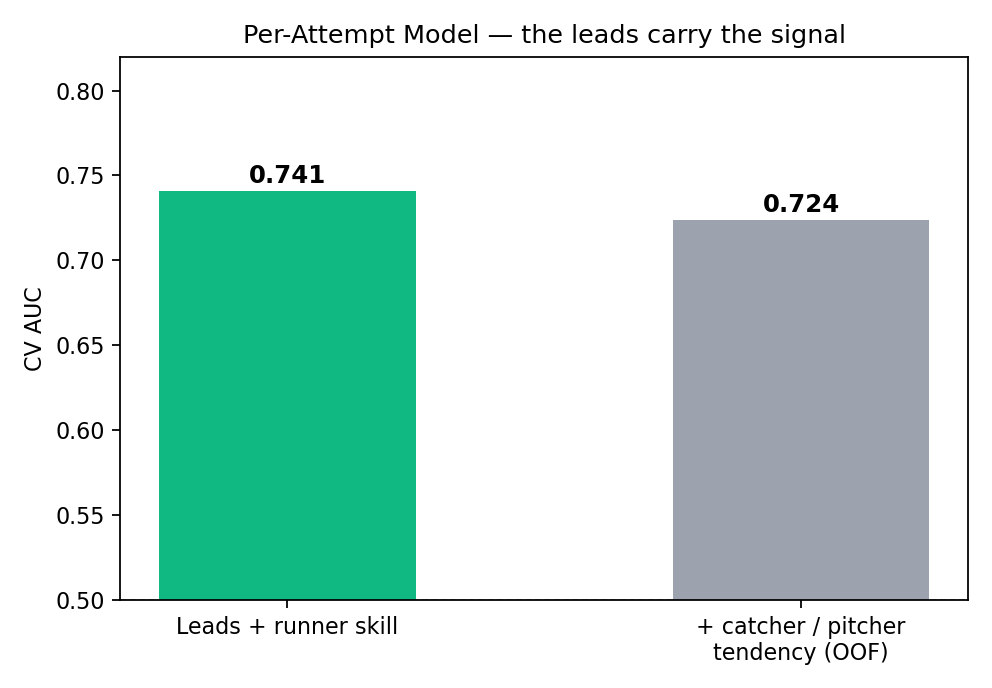
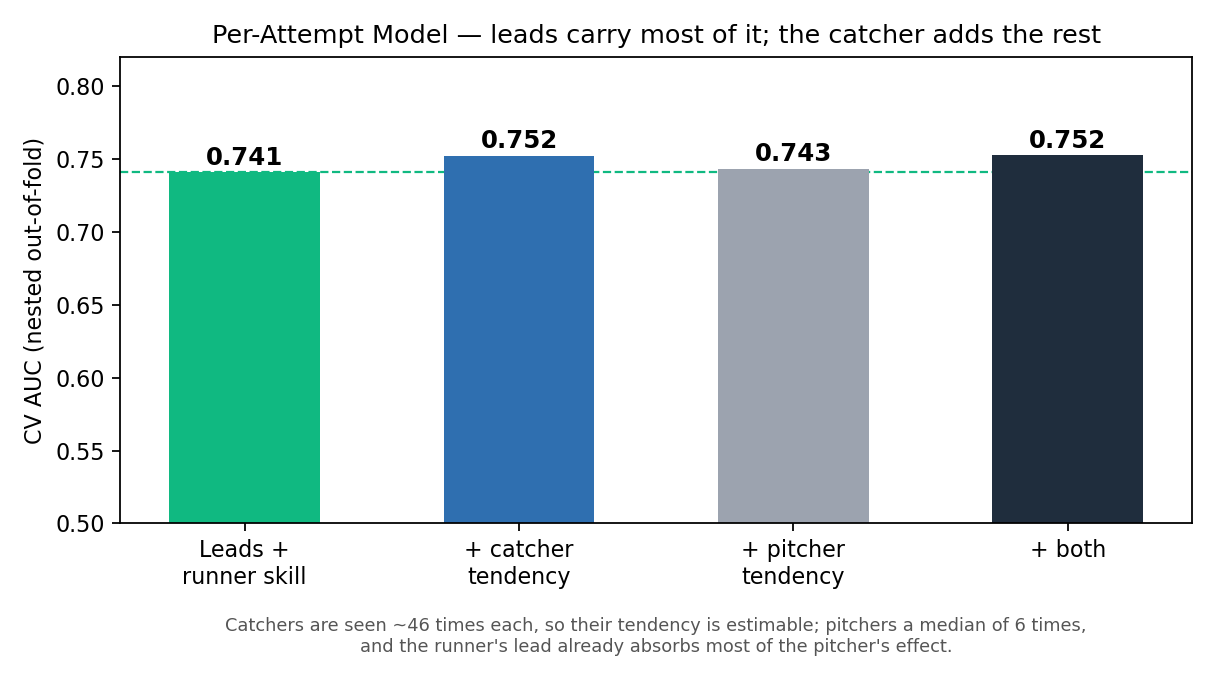
Fix leaky target encoding in the per-attempt model; catcher tendency helps
The per-attempt model reported that catcher/pitcher tendency HURT accuracy (0.723 vs 0.739)
and the roadmap recorded that as a finding. It was an encoding bug.

target_encode(tr, tr, key) encoded the training rows from those same rows, so every row's own
outcome fed into its own feature value. The validation side was correctly out-of-fold, so the
feature looked strong in training, the model over-trusted it, and the clean validation encoding
then behaved differently — accuracy fell. The self-contamination is ~1/(n+smoothing) per row,
which is why the damage tracked sparsity: catchers are seen a median of 46 times (self-weight
0.009, essentially harmless) while pitchers are seen a median of 6 (self-weight 0.027) and on
their own dragged the model to 0.708, well below the 0.739 baseline.

Encoding the training rows with an inner 5-fold inside the training fold — so no row ever sees
its own outcome — flips the sign:

  leads + base + runner skill   0.7407
  + catcher tendency            0.7521
  + pitcher tendency            0.7432
  + both                        0.7525

The catcher carries the gain, which is what you would expect: 147 catchers with enough
attempts each to estimate a real, stable trait (pop time, arm). The pitcher adds almost
nothing — 1,025 pitchers at a median of 6 attempts is too sparse to estimate a hold tendency,
and the runner's lead distances already absorb most of the pitcher's effect, since he only
goes when he likes the look.
[…]

diff --git a/docs/index.html b/docs/index.html
@@ -581,7 +581,7 @@ function buildGlossary(){
     <b>${fmt(sSuc,2)}</b> while staying speed-neutral (<b>${signed(spSpd,2)}</b> with sprint speed);
     Burst is the most repeatable year to year (<b>${fmt(bStab,2)}</b>). A v10 “Steal Grade” averaged the
     two — dropped in v11, since it predicted no better than Steal+ alone. Per-attempt skill model:
-    CV AUC ≈ 0.74. Headshots &amp; logos: MLB. Everything computed locally — no external calls.`;
+    CV AUC ≈ 0.75. Headshots &amp; logos: MLB. Everything computed locally — no external calls.`;
 }
 
 initControls(); buildGlossary(); render(); drawScatter();

diff --git a/Scripts/model_v11.py b/Scripts/model_v11.py
@@ -265,42 +265,60 @@ def run_perattempt(seed: int = 42):
                              colsample_bytree=0.8, min_child_weight=5, reg_lambda=1.0,
                              eval_metric="logloss", verbosity=0, random_state=seed, use_label_encoder=False)
 
-    def target_encode(train_idx, val_idx, key, smoothing=20.0):
-        """Smoothed mean-target encoding fit on the train fold, applied out-of-fold to val."""
-        stats = df.iloc[train_idx].groupby(key)["y"].agg(["sum", "count"])
-        enc = (stats["sum"] + prior * smoothing) / (stats["count"] + smoothing)
-        return df.iloc[val_idx][key].map(enc).fillna(prior).values
+    def encode_map(idx, key, smoothing=20.0):
+        """Smoothed mean-target encoding learned from the rows in `idx`."""
+        stats = df.iloc[idx].groupby(key)["y"].agg(["sum", "count"])
+        return (stats["sum"] + prior * smoothing) / (stats["count"] + smoothing)
 
-    def cv_auc(use_battery: bool):
-        """Pooled out-of-fold AUC; use_battery adds OOF-encoded catcher/pitcher tendency."""
+    def apply_map(enc, idx, key):
+        return df.iloc[idx][key].map(enc).fillna(prior).values
+
+    def cv_auc(battery_keys=()):
+        """Pooled out-of-fold AUC. Battery tendency is target-encoded, and the TRAINING rows
+        are encoded with an inner K-fold so no row ever sees its own outcome. Encoding the
+        train rows from the same rows leaks the label into the feature: the model over-trusts
+        it in training, the clean val encoding then behaves differently, and AUC drops. The
+        leak is ~1/(n+smoothing) per row, so it is worst for sparsely-seen pitchers."""
         oof = np.zeros(len(df))
         for tr, va in cv.split(df, y):
             Xtr, Xva = df.iloc[tr][feats].copy(), df.iloc[va][feats].copy()
-            if use_battery:
-                for key, col in [("catcher_id", "catch_enc"), ("pitcher_id", "pitch_enc")]:
-                    Xtr[col] = target_encode(tr, tr, key); Xva[col] = target_encode(tr, va, key)
-            model = xgb().fit(Xtr.values, y[tr])
-            oof[va] = model.predict_proba(Xva.values)[:, 1]
+            for key in battery_keys:
+                col = key + "_enc"
+                inner_enc = np.full(len(tr), prior)
+                inner = StratifiedKFold(n_splits=5, shuffle=True, random_state=seed + 1)
+                for i_tr, i_va in inner.split(df.iloc[tr], y[tr]):
+                    inner_enc[i_va] = apply_map(encode_map(tr[i_tr], key), tr[i_va], key)
+                Xtr[col] = inner_enc                                  # nested OOF -> no self-leak
+                Xva[col] = apply_map(encode_map(tr, key), va, key)    # val: encoded from full train
+            oof[va] = xgb().fit(Xtr.values, y[tr]).predict_proba(Xva.values)[:, 1]
         return roc_auc_score(y, oof)
 
-    auc_leads = cv_auc(False)                       # leads + base + runner skill only
-    auc_full  = cv_auc(True)                        # + catcher/pitcher tendency
-    pd.DataFrame([{"model": "per-attempt: leads+base+runner", "auc": round(auc_leads, 4)},
-                  {"model": "per-attempt: + catcher/pitcher (OOF)", "auc": round(auc_full, 4)}]
+    auc_leads   = cv_auc()                                        # leads + base + runner skill
+    auc_catcher = cv_auc(["catcher_id"])                          # + catcher tendency
+    auc_pitcher = cv_auc(["pitcher_id"])                          # + pitcher tendency
+    auc_full    = cv_auc(["catcher_id", "pitcher_id"])            # + both
+    pd.DataFrame([{"model": "per-attempt: leads+base+runner",            "auc": round(auc_leads, 4)},
+                  {"model": "per-attempt: + catcher (nested OOF)",       "auc": round(auc_catcher, 4)},
+                  {"model": "per-attempt: + pitcher (nested OOF)",       "auc": round(auc_pitcher, 4)},
+                  {"model": "per-attempt: + both battery (nested OOF)",  "auc": round(auc_full, 4)}]
                  ).to_csv(RESULTS / "DF_perattempt_AUC.csv", index=False)
 
     imp = (pd.DataFrame({"feature": feats, "importance": xgb().fit(df[feats].values, y).feature_importances_})
            .sort_values("importance", ascending=False).reset_index(drop=True))
     imp.to_csv(RESULTS / "DF_perattempt_Importance.csv", index=False)
 
-    fig, ax = plt.subplots(figsize=(6.2, 4.3))
-    ax.bar(["Leads + runner skill", "+ catcher / pitcher\ntendency (OOF)"], [auc_leads, auc_full],
-           color=["#10B981", "#9CA3AF"], width=0.5)
-    ax.axhline(0.50, color="#aaa", lw=0.8, ls="--", zorder=0)
-    ax.set_ylabel("CV AUC"); ax.set_ylim(0.5, 0.82)
-    ax.set_title("Per-Attempt Model — the leads carry the signal", fontsize=11.5)
-    for i, v in enumerate([auc_leads, auc_full]):
+    fig, ax = plt.subplots(figsize=(7.6, 4.3))
+    labels = ["Leads +\nrunner skill", "+ catcher\ntendency", "+ pitcher\ntendency", "+ both"]
+    vals   = [auc_leads, auc_catcher, auc_pitcher, auc_full]
+    ax.bar(labels, vals, color=["#10B981", "#2F6FB0", "#9CA3AF", "#1F2D3D"], width=0.55)
+    ax.axhline(auc_leads, color="#10B981", lw=1, ls="--", zorder=0)
+    ax.set_ylabel("CV AUC (nested out-of-fold)"); ax.set_ylim(0.5, 0.82)
+    ax.set_title("Per-Attempt Model — leads carry most of it; the catcher adds the rest", fontsize=11.5)
+    for i, v in enumerate(vals):
         ax.text(i, v + 0.005, f"{v:.3f}", ha="center", fontweight="bold", fontsize=11)
+    ax.text(0.5, -0.20, "Catchers are seen ~46 times each, so their tendency is estimable; pitchers a median of 6 times,\n"
+            "and the runner's lead already absorbs most of the pitcher's effect.",
+            transform=ax.transAxes, ha="center", va="top", fontsize=8, color="#555")
     fig.tight_layout(); fig.savefig(figs / "Fig_AUC.png", dpi=160); plt.close(fig)
 
     g = imp.iloc[::-1]
@@ -310,7 +328,8 @@ def run_perattempt(seed: int = 42):
     ax.set_xlabel("XGBoost gain importance")
     ax.set_title("Per-Attempt Model — what decides a steal (blue = per-pitch lead distances)", fontsize=11)
     plt.tight_layout(); plt.savefig(figs / "Fig_Importance.png", dpi=160); plt.close()
-    print(f"per-attempt SB-success AUC: {auc_leads:.4f} (leads+runner) | {auc_full:.4f} (+battery), n={len(df)}")
+    print(f"per-attempt SB-success AUC (nested OOF): {auc_leads:.4f} leads+runner | "
+          f"{auc_catcher:.4f} +catcher | {auc_pitcher:.4f} +pitcher | {auc_full:.4f} +both, n={len(df)}")
     return auc_leads, auc_full
 
 

diff --git a/AUC_Roadmap.md b/AUC_Roadmap.md
@@ -4,21 +4,40 @@
 
 The project's model works at the **attempt grain**: ~10,366 individual tracked steal attempts
 (`Scripts/model_v11.py` (`run_perattempt`)), not 673 season averages. That choice is what reached the target —
-CV AUC **0.739**, with no leakage. (An earlier season-aggregate predictor topped out near 0.62 and
+CV AUC **0.753**, with no leakage. (An earlier season-aggregate predictor topped out near 0.62 and
 has been removed; season data now only powers the descriptive SSSI / xSB / Blueprint outputs.)
 
 | Model | Unit | Rows | AUC |
 |---|---|---|---|
 | season aggregate (removed) | runner-season | 673 | ~0.62 |
-| **per-attempt XGBoost (the model)** | **individual attempt** | **~10,366** | **0.739** |
+| **per-attempt XGBoost (the model)** | **individual attempt** | **~10,366** | **0.753** |
 
 **What drove it:** the per-pitch **lead distances** (`lead_at_firstmove_ft`, `gain_to_release_ft`,
 `lead_at_release_ft`) — how much ground the runner actually covered on *that* attempt. Exactly the
-project's thesis: ground covered, not raw speed, decides the steal. Adding out-of-fold
-catcher/pitcher tendency encodings *did not help* (0.723 < 0.739) — the leads already carry the signal.
+project's thesis: ground covered, not raw speed, decides the steal.
 
-**Leakage discipline (so 0.739 is honest):** no outcome-derived columns (`run_value` dropped); the
-runner's own season success rate is excluded; catcher/pitcher encodings are computed out-of-fold.
+**Battery tendency — corrected.** An earlier version reported that catcher/pitcher encodings *hurt*
+(0.723 < 0.739). That was an encoding bug, not a finding: the training rows were target-encoded from
+those same rows, so each row's own outcome leaked into its feature, the model over-trusted it, and the
+clean validation encoding then behaved differently. With the encoding nested properly inside the
+training fold the sign flips:
+
+| variant (nested out-of-fold) | AUC |
+|---|---|
+| leads + base + runner skill | 0.741 |
+| **+ catcher tendency** | **0.752** |
+| + pitcher tendency | 0.743 |
+| + both | 0.753 |
+
+The **catcher** carries the gain — 147 catchers seen a median of 46 times each, enough to estimate a
+real trait (pop time, arm). The **pitcher** adds almost nothing: 1,025 pitchers at a median of 6
+attempts is too sparse to estimate a hold tendency, and the runner's lead distances already absorb
+most of the pitcher's effect — he only goes when he likes the look. The leak scaled as ~1/(n+20) per
+row, which is why the sparse pitcher encoding did the damage (0.708 on its own).
+
+**Leakage discipline (so 0.753 is honest):** no outcome-derived columns (`run_value` dropped); the
+runner's own season success rate is excluded; catcher/pitcher encodings are nested out-of-fold on both
+the training and validation side.
 
 ## Would deep learning help? No.
 
@@ -89,7 +108,7 @@ Pulled with the same Savant per-pitch feed (or the cached pitch table), keyed by
 
 ## The concrete next experiment
 
-> The per-attempt model (0.739) uses leads + base + runner skill. To push toward ~0.76: fetch
+> The per-attempt model (0.753) uses leads + base + runner skill + catcher tendency. To push further: fetch
 > **`p_throws`** and **`pitch_name`** for each `play_id` in the leads cache (Savant per-pitch feed),
 > add `is_lhp` and `pitch_class` as per-attempt features in `Scripts/model_v11.py` (`run_perattempt`), and re-run.
 > Pitcher handedness at the attempt level is the single most likely lift (LHP see and hold the runner).

diff --git a/README.md b/README.md
@@ -77,7 +77,7 @@ The honest read: **Steal+ is the single best answer to "who steals well"** — i
 
 The model has two clearly separated jobs — kept apart on purpose:
 
-1. **The skill engine (per attempt).** A per-attempt XGBoost over **~11,000 individual tracked attempts** (one row per steal, with the lead distances the runner got on that pitch). CV **AUC ≈ 0.74**. It answers a *within-attempt* question — *given how this runner led off on this pitch, did the attempt succeed?* — driven by the per-pitch lead distances. **It is not a season forecast and not a next-season projection.** It lives in `Scripts/model_v11.py` (`run_perattempt`).
+1. **The skill engine (per attempt).** A per-attempt XGBoost over **~11,000 individual tracked attempts** (one row per steal, with the lead distances the runner got on that pitch). CV **AUC ≈ 0.75** (0.741 on the leads alone, 0.752 once catcher tendency is added). It answers a *within-attempt* question — *given how this runner led off on this pitch, did the attempt succeed?* — driven by the per-pitch lead distances. **It is not a season forecast and not a next-season projection.** It lives in `Scripts/model_v11.py` (`run_perattempt`).
 
 2. **The metric suite (per runner-season).** `Scripts/model_v11.py` turns the season data into Steal+ (headline), Burst, and the Net-Bases decomposition. It is written in two stages so it can be trusted:
    - `fit_league(era)` learns the league constants (the `ground ~ sprint_speed` line, the percentile references) **once** on the whole pool;
